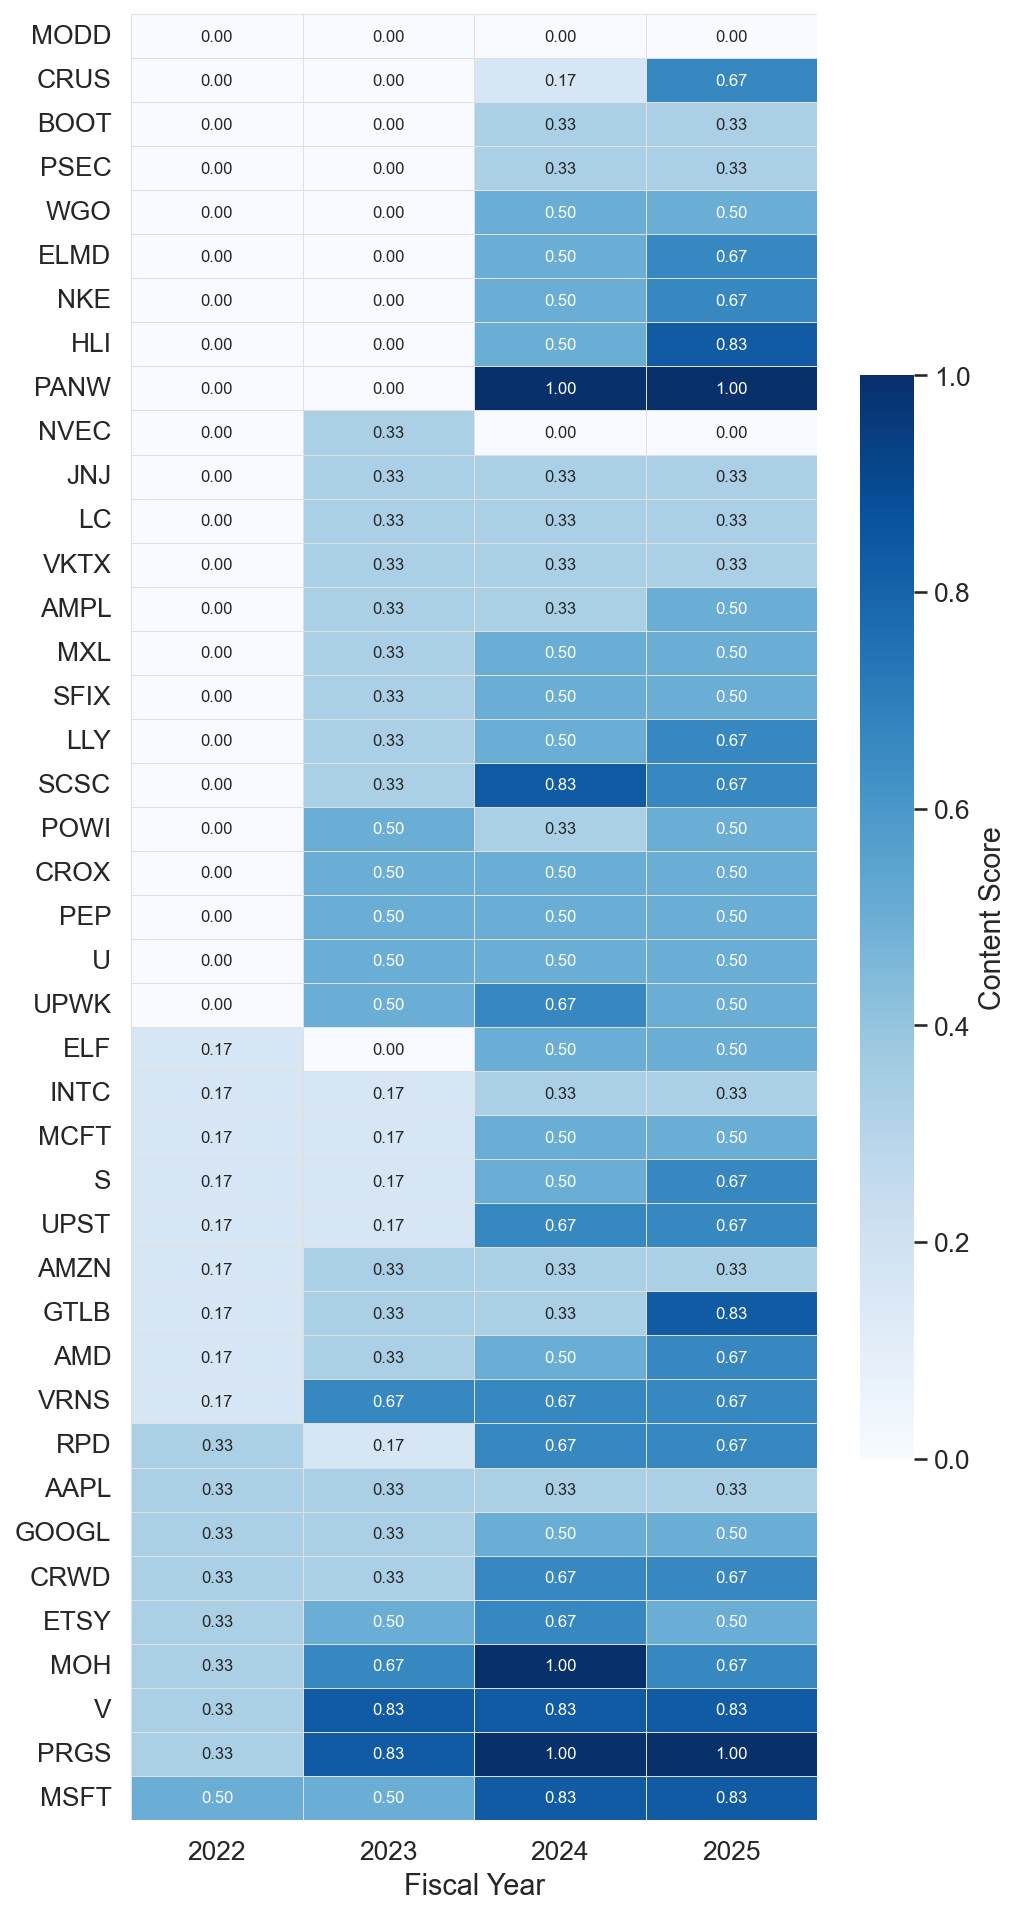
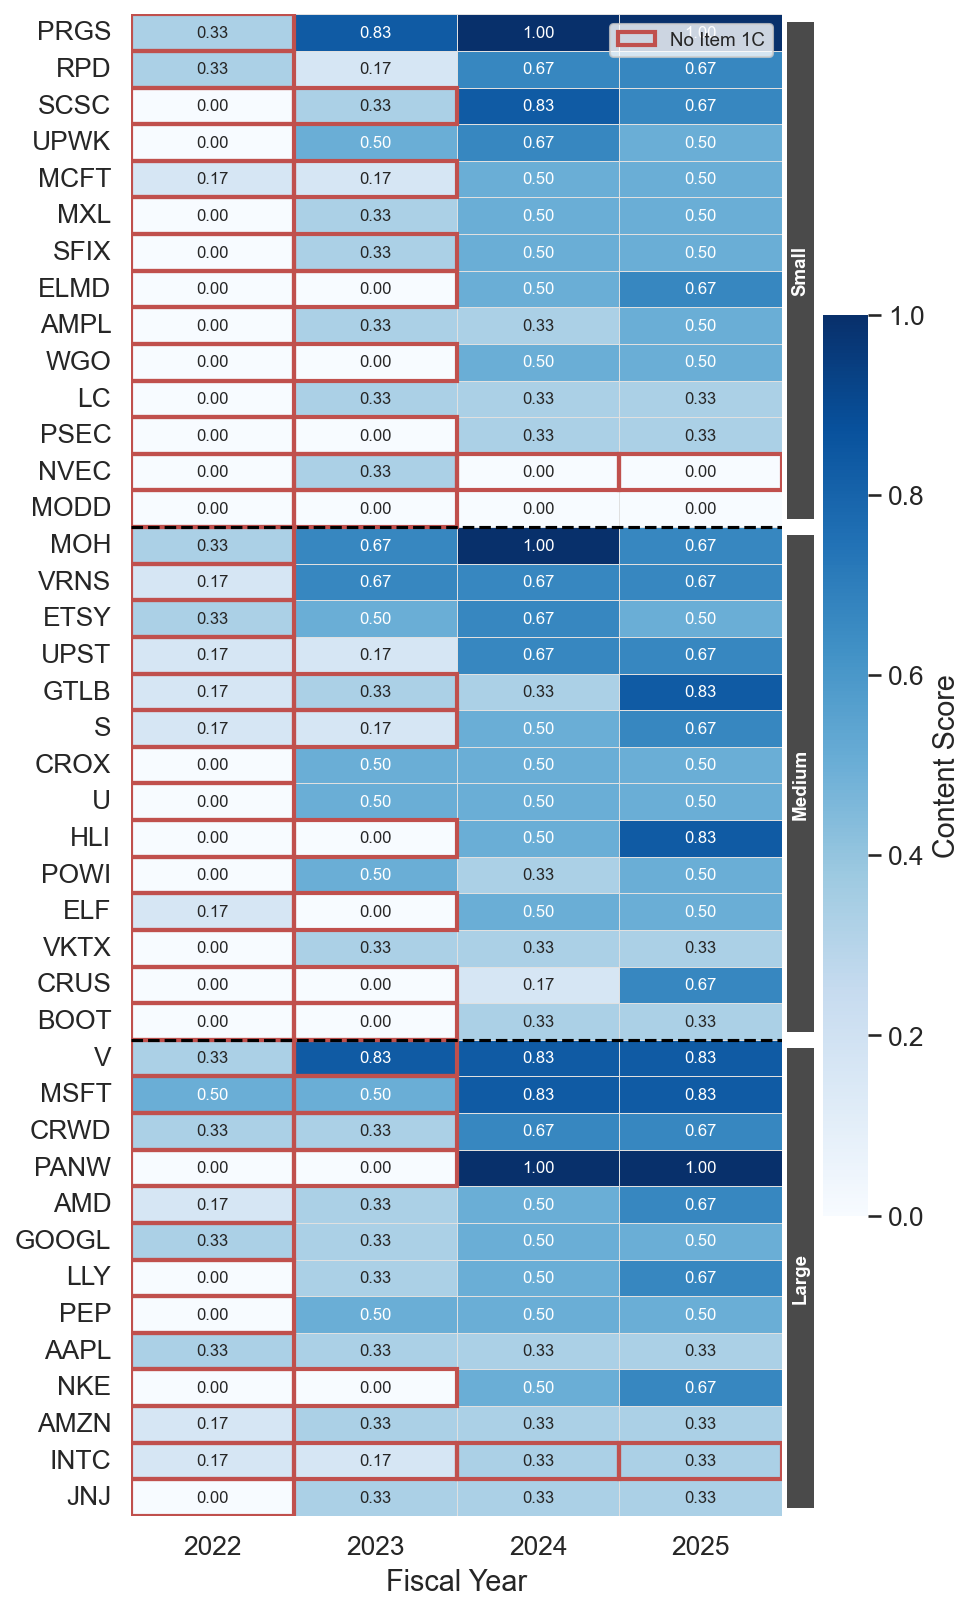
updated visuals

diff --git a/visualizer/content_visuals.py b/visualizer/content_visuals.py
@@ -221,43 +221,23 @@ plt.close()
 print("Saved content_by_sector.png")
 
 
-# Fig: Specificity score boxplot by firm size
-size_means = df.groupby("size")["content_score"].mean()
-
-fig, ax = plt.subplots(figsize=(8, 5))
-sns.boxplot(
-    data=df,
-    x="size",
-    y="content_score",
-    order=SIZE_ORDER,
-    color=BLUE,
-    ax=ax,
-    flierprops=dict(marker=".", markersize=5, alpha=0.5),
-)
-
-ymax = df["content_score"].quantile(0.98)
-for i, sz in enumerate(SIZE_ORDER):
-    ax.text(
-        i,
-        size_means[sz] + 0.04,
-        f"Mean\n{size_means[sz]:.3f}",
-        ha="center",
-        va="bottom",
-        fontsize=9,
-    )
-
-ax.set_xlabel("Firm Size")
-ax.set_ylabel("Content Score (0–1)")
-ax.set_ylim(-0.05, 1.15)
-plt.tight_layout()
-plt.savefig(out("content_by_size.png"), dpi=150, bbox_inches="tight")
-plt.close()
-print("Saved content_score_by_size.png")
-
-
-# Fig: Heatmap: all firms × all years
+# Fig: Heatmap: all firms × all years, clustered by firm size
 pivot = df.pivot_table(index="ticker", columns="year", values="content_score")
-pivot = pivot.sort_values(by=[2022, 2023, 2024, 2025])
+
+size_map = df[["ticker", "size"]].drop_duplicates().set_index("ticker")["size"]
+pivot["_size_order"] = pivot.index.map(size_map).map(
+    {s: i for i, s in enumerate(SIZE_ORDER)}
+)
+year_cols = [c for c in pivot.columns if c != "_size_order"]
+pivot["_mean"] = pivot[year_cols].mean(axis=1)
+pivot = pivot.sort_values(by=["_size_order", "_mean"], ascending=[True, False])
+pivot = pivot.drop(columns=["_size_order", "_mean"])
+
+size_labels = size_map.reindex(pivot.index)
+group_sizes = [
+    int((size_labels == s).sum()) for s in SIZE_ORDER if s in size_labels.values
+]
+active_sizes = [s for s in SIZE_ORDER if s in size_labels.values]
 
 fig, ax = plt.subplots(figsize=(7, 13))
 sns.heatmap(
@@ -274,9 +254,72 @@ sns.heatmap(
     annot_kws={"size": 8},
 )
 
+# Build per-cell has_1c lookup: (ticker, year) -> bool
+has_1c_cell = df.set_index(["ticker", "year"])["has_1c"].to_dict()
+
+# Draw orange border on individual cells WITHOUT Item 1C
+for row_idx, ticker in enumerate(pivot.index):
+    for col_idx, year in enumerate(pivot.columns):
+        if not has_1c_cell.get((ticker, year), True):
+            rect = plt.Rectangle(
+                (col_idx, row_idx),
+                1,
+                1,
+                fill=False,
+                edgecolor="#C0504D",
+                lw=2.0,
+                clip_on=True,
+            )
+            ax.add_patch(rect)
+
+# Legend for Item 1C border
+from matplotlib.patches import Patch
+
+legend_elements = [
+    Patch(facecolor="none", edgecolor="#C0504D", lw=2.0, label="No Item 1C")
+]
+ax.legend(handles=legend_elements, loc="upper right", fontsize=9, framealpha=0.8)
+
+# Divider lines between size groups
+cumulative_boundaries = np.cumsum(group_sizes[:-1])
+for boundary in cumulative_boundaries:
+    ax.axhline(boundary, color="black", lw=1.5, ls="--")
+
+# Dark gray side bars with rotated size labels
+ax_pos = ax.get_position()
+group_start = 0
+for sz, count in zip(active_sizes, group_sizes):
+    y_bottom = group_start / len(pivot)
+    y_top = (group_start + count) / len(pivot)
+    y_mid = (y_bottom + y_top) / 2
+
+    gap = 0.004  # small gap at top and bottom of each bar
+    fig_y0 = ax_pos.y0 + (1 - y_top) * ax_pos.height + gap
+    fig_height = (count / len(pivot)) * ax_pos.height - 2 * gap
+    fig_x0 = ax_pos.x1 + 0.005
+
+    label_ax = fig.add_axes([fig_x0, fig_y0, 0.025, fig_height])
+    label_ax.set_facecolor("#4A4A4A")
+    label_ax.set_xticks([])
+    label_ax.set_yticks([])
+    for spine in label_ax.spines.values():
+        spine.set_visible(False)
+    label_ax.text(
+        0.5,
+        0.5,
+        sz,
+        ha="center",
+        va="center",
+        fontsize=9,
+        fontweight="bold",
+        color="white",
+        rotation=90,
+        transform=label_ax.transAxes,
+    )
+    group_start += count
+
 ax.set_xlabel("Fiscal Year")
 ax.set_ylabel("")
-plt.tight_layout()
 plt.savefig(out("content_heatmap.png"), dpi=150, bbox_inches="tight")
 plt.close()
 print("Saved content_heatmap.png")

diff --git a/visualizer/quality_visuals.py b/visualizer/quality_visuals.py
@@ -1,21 +1,3 @@
-"""
-10-K Quality Score Analysis – Quality Score Visualization Script
-Produces 3 main text figures + 2 appendix figures.
-
-MAIN TEXT:
-fig_quality_by_year.png     – mean quality score over time with jittered dots
-fig_quality_by_sector.png   – mean quality score by sector (bar + SD)
-fig_quality_by_1c.png       – quality score: Item 1C adopters vs non-adopters
-
-APPENDIX:
-figA_quality_by_size.png    – quality score boxplot by firm size
-figA_quality_heatmap.png    – heatmap: all firms × all years
-
-Requirements: pandas, matplotlib, seaborn, numpy
-Usage: python quality_visuals.py
-Input: quality_results.csv (same directory)
-"""
-
 import pandas as pd
 import matplotlib.pyplot as plt
 import seaborn as sns
@@ -222,9 +204,27 @@ plt.savefig(out("quality_by_size.png"), dpi=150, bbox_inches="tight")
 plt.close()
 print("Saved quality_by_size.png")
 
-# Fig: Heatmap: All Firms × All Years
+# Fig: Heatmap: All Firms × All Years, clustered by firm size
 pivot = df_scored.pivot_table(index="ticker", columns="year", values="quality_score")
-pivot = pivot.sort_values(by=sorted(pivot.columns))
+
+# Per-cell has_1c lookup
+has_1c_cell = df_scored.set_index(["ticker", "year"])["has_1c"].to_dict()
+
+# Sort by size group, then by mean score descending within each group
+size_map = df_scored[["ticker", "size"]].drop_duplicates().set_index("ticker")["size"]
+pivot["_size_order"] = pivot.index.map(size_map).map(
+    {s: i for i, s in enumerate(SIZE_ORDER)}
+)
+year_cols = [c for c in pivot.columns if c != "_size_order"]
+pivot["_mean"] = pivot[year_cols].mean(axis=1)
+pivot = pivot.sort_values(by=["_size_order", "_mean"], ascending=[True, False])
+pivot = pivot.drop(columns=["_size_order", "_mean"])
+
+size_labels = size_map.reindex(pivot.index)
+group_sizes = [
+    int((size_labels == s).sum()) for s in SIZE_ORDER if s in size_labels.values
+]
+active_sizes = [s for s in SIZE_ORDER if s in size_labels.values]
 
 fig, ax = plt.subplots(figsize=(7, 13))
 sns.heatmap(
@@ -241,9 +241,67 @@ sns.heatmap(
     annot_kws={"size": 8},
 )
 
+# Orange-free border on cells WITHOUT Item 1C
+from matplotlib.patches import Patch
+
+for row_idx, ticker in enumerate(pivot.index):
+    for col_idx, year in enumerate(pivot.columns):
+        if not has_1c_cell.get((ticker, year), True):
+            rect = plt.Rectangle(
+                (col_idx, row_idx),
+                1,
+                1,
+                fill=False,
+                edgecolor="#C0504D",
+                lw=2.0,
+                clip_on=True,
+            )
+            ax.add_patch(rect)
+
+# Legend for Item 1C border
+legend_elements = [
+    Patch(facecolor="none", edgecolor="#C0504D", lw=2.0, label="No Item 1C")
+]
+ax.legend(handles=legend_elements, loc="upper right", fontsize=9, framealpha=0.8)
+
+# Dashed divider lines between size groups
+cumulative_boundaries = np.cumsum(group_sizes[:-1])
+for boundary in cumulative_boundaries:
+    ax.axhline(boundary, color="black", lw=1.5, ls="--")
+
+# Dark gray side bars with rotated size labels and small gaps
+ax_pos = ax.get_position()
+group_start = 0
+for sz, count in zip(active_sizes, group_sizes):
+    y_top = (group_start + count) / len(pivot)
+
+    gap = 0.004
+    fig_y0 = ax_pos.y0 + (1 - y_top) * ax_pos.height + gap
+    fig_height = (count / len(pivot)) * ax_pos.height - 2 * gap
+    fig_x0 = ax_pos.x1 + 0.005
+
+    label_ax = fig.add_axes([fig_x0, fig_y0, 0.025, fig_height])
+    label_ax.set_facecolor("#4A4A4A")
+    label_ax.set_xticks([])
+    label_ax.set_yticks([])
+    for spine in label_ax.spines.values():
+        spine.set_visible(False)
+    label_ax.text(
+        0.5,
+        0.5,
+        sz,
+        ha="center",
+        va="center",
+        fontsize=9,
+        fontweight="bold",
+        color="white",
+        rotation=90,
+        transform=label_ax.transAxes,
+    )
+    group_start += count
+
 ax.set_xlabel("Fiscal Year")
 ax.set_ylabel("")
-plt.tight_layout()
 plt.savefig(out("quality_heatmap.png"), dpi=150, bbox_inches="tight")
 plt.close()
 print("Saved quality_heatmap.png")

diff --git a/visualizer/length_analysis_visuals.py b/visualizer/length_analysis_visuals.py
@@ -313,6 +313,7 @@ ax1.set_ylabel("Item 1A Mean Word Count", color=BLUE)
 ax1.tick_params(axis="y", labelcolor=BLUE)
 ax1.yaxis.set_major_formatter(mticker.FuncFormatter(fmt_thousands))
 ax1.set_xticks([2022, 2023, 2024, 2025])
+ax1.set_ylim(15000, 18000)
 
 ax2.set_ylabel("Item 1C Mean Word Count", color=ORANGE)
 ax2.tick_params(axis="y", labelcolor=ORANGE)
